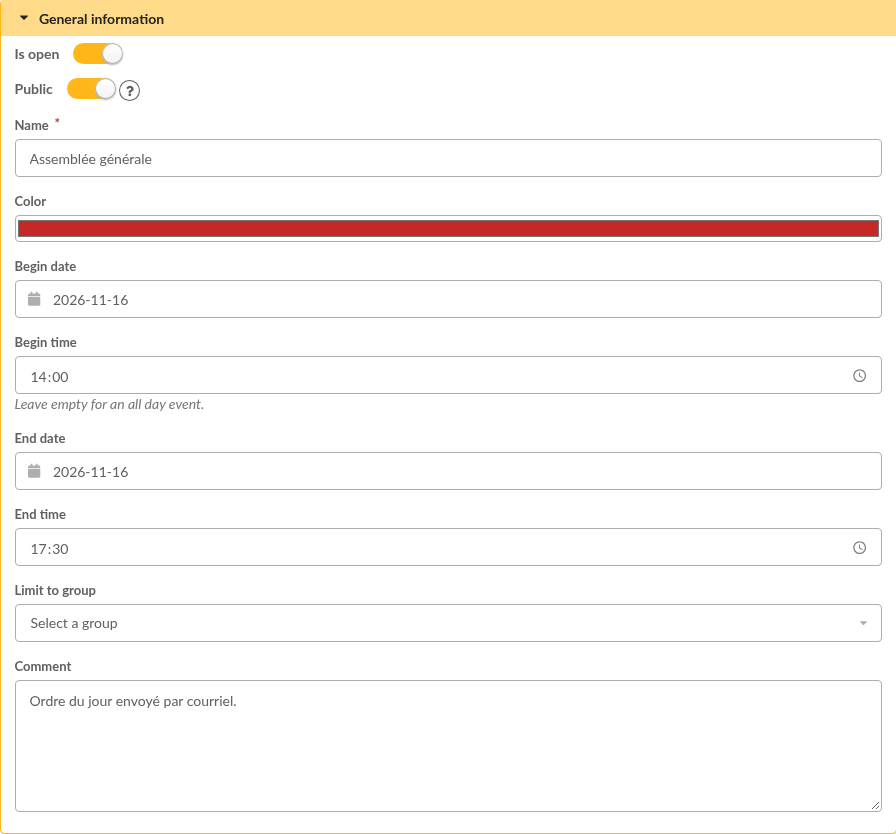
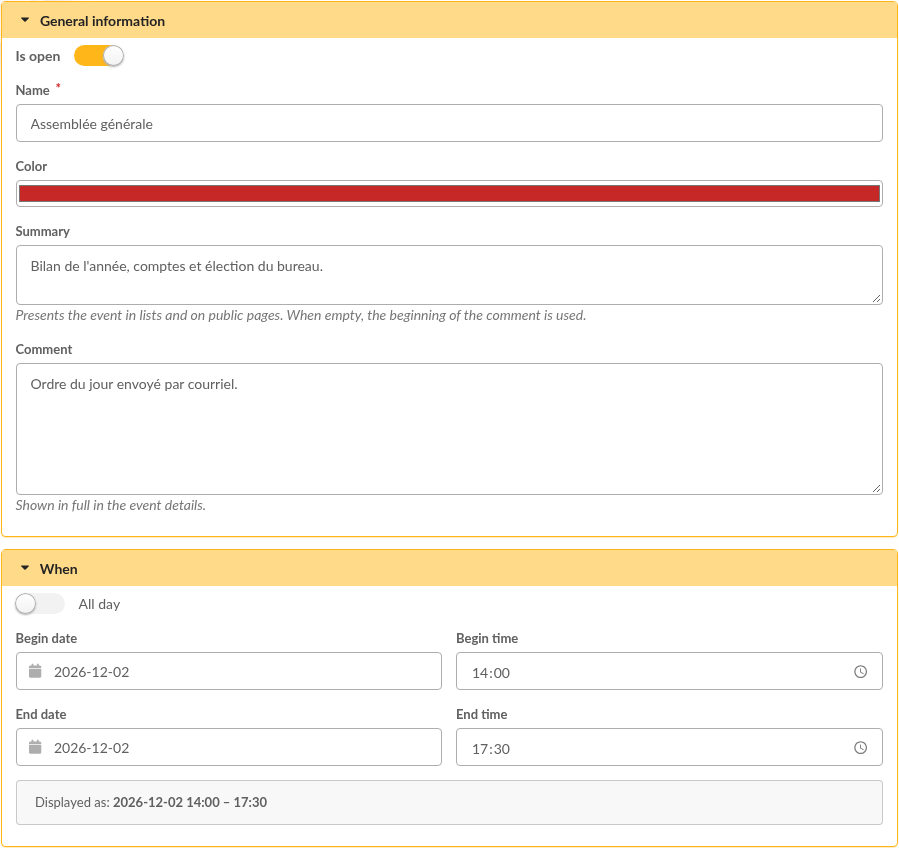
Document the event form parts, subscription menu and public event details

diff --git a/fr/documentation.md b/fr/documentation.md
@@ -7,20 +7,18 @@ Ce plugin fournit :
 
 * gestion d'évènements,
 * association d'activités avec des évènements,
-* gestion des réservations.
+* gestion des réservations,
+* un calendrier, avec les évènements pour les applications d'agenda,
+* une page publique listant les évènements que vous publiez.
 
 ## Installation
 
 Tout d'abord, téléchargez le plugin :
 
-* [Obtenir le dernier plugin Events
-  !](https://github.com/galette-plugins/plugin-events/releases/latest)
-* [Obtenir la nightly du plugin Events
-  !](https://github.com/galette-plugins/plugin-events/releases/tag/nightly)
+* [Obtenir le dernier plugin Events !](https://github.com/galette-plugins/plugin-events/releases/latest)
+* [Obtenir la nightly du plugin Events !](https://github.com/galette-plugins/plugin-events/releases/tag/nightly)
 
-Extrayez l'archive téléchargée dans le dossier `plugins` de Galette. Par
-exemple, sous linux (en remplaçant `{url}` et `{version}` par les valeurs
-adéquates) :
+Extrayez l'archive téléchargée dans le dossier `plugins` de Galette. Par exemple, sous linux (en remplaçant `{url}` et `{version}` par les valeurs adéquates) :
 
 ```bash
 $ cd /var/www/html/galette/plugins
@@ -30,94 +28,152 @@ $ tar xjvf galette-plugin-events-{version}.tar.bz2
 
 ## Initialisation de la base de données
 
-Pour fonctionner, ce plugin requiert des tables dans la base de données.
-Référez-vous [à l'interface de gestion des plugins de
-Galette](https://doc.galette.eu/en/master/plugins/index.html#plugins-managment).
+Pour fonctionner, ce plugin requiert des tables dans la base de données. Référez-vous [à l'interface de gestion des plugins de Galette](https://doc.galette.eu/en/master/plugins/index.html#plugins-managment).
 
 Et c'est terminé, le plugin Events est installé :)
 
 ## Utilisation du plugin
 
-Lorsque le plugin est installé, un groupe `Évènements` est ajouté au menu de
-Galette lorsqu'un utilisateur est connecté. Il y a plusieurs possibilités qui
-diffèrent en fonction du profil de l'utilisateur (simple adhérent, responsable
-de groupe, administrateur, ...).
+Lorsque le plugin est installé, un groupe `Évènements` est ajouté au menu de Galette lorsqu'un utilisateur est connecté. Il y a plusieurs possibilités qui diffèrent en fonction du profil de l'utilisateur (simple adhérent, responsable de groupe, administrateur, ...).
 
 ### Activités
 
-Vous pouvez définir autant d'activités que vous le souhaitez, et les associer à
-un évènement. Une activité peut être un voyage organisé, un repas, une sortie,
-un hébergement, ...
+Vous pouvez définir autant d'activités que vous le souhaitez, et les associer à un évènement. Une activité peut être un voyage organisé, un repas, une sortie, un hébergement, ...
 
 ![La liste des activités](images/list_activities.png)
 
-Una activité se compose d'un nom, d'un statut et éventuellement d'un
-commentaire.
+Une activité se compose d'un nom, d'un statut et éventuellement d'un commentaire.
 
 Pour ajouter une nouvelle activité, cliquez sur le lien « Nouvelle activité » :
 
-![La forme d'une nouvelle activité](images/new_activity.png)
+![Le formulaire d'une nouvelle activité](images/new_activity.png)
 
 ### Évènements
 
-Les évènements sont le cœur du plugin. Vous pouvez définir diverses
-informations, comme un nom, des dates de début et de fin, un lieu, ...
+Les évènements sont le cœur du plugin. Vous pouvez définir diverses informations, comme un nom, des dates de début et de fin, un lieu, ...
 
-![La forme d'un nouvel événement](images/new_event.png)
+![Le formulaire d'un nouvel évènement](images/new_event.png)
 
-Les nom, date de début et ville sont requis. Toutes les autres informations sont
-optionnelles.
+Les nom, date de début et ville sont requis. Toutes les autres informations sont optionnelles.
 
-Les évènements qui ne sont pas liés à un groupe seront accessible pour tous les
-adhérents ; Si un groupe est défini, seuls les membres et responsable de ce
-groupe y auront accès.
+Le **Résumé** présente l'évènement en quelques mots, dans les listes et sur les pages publiques ; s'il est vide, le début du commentaire est utilisé à la place. Le **Commentaire** est affiché en entier dans le détail de l'évènement.
+
+La partie **Quand** définit les dates et heures de l'évènement. Cochez **Toute la journée** pour un évènement sans heures : les champs d'heure sont alors masqués, et les heures saisies auparavant sont ignorées. Sinon, les heures restent facultatives :
+
+* **Sans heure de début** : l'évènement dure toute la journée, de sa date de début à sa date de fin,
+* **Heure de début seule** : l'évènement est affiché à son heure de début, sans fin,
+* **Heures de début et de fin** : sur une même journée, l'heure de fin ne peut pas précéder l'heure de début.
+
+Une heure de fin sans heure de début est refusée. **Affiché ainsi** montre, pendant la saisie, la période telle qu'elle apparaîtra dans les listes, dans le calendrier et sur les pages publiques.
+
+> **Note** — Les heures, le résumé et le choix « Qui peut le voir » sont apparus en version 2.4.0.
+
+La partie **Qui peut le voir** définit qui a accès à l'évènement :
+
+![Qui peut voir un évènement](images/event_visibility.png)
+
+* **Tous les membres** : l'évènement est accessible à tous les adhérents,
+* **Un groupe** : seuls les membres et responsables du groupe choisi (et de ses sous-groupes) y auront accès,
+* **Public** : l'évènement est accessible à tous les adhérents, et il est aussi publié sur les pages publiques de Galette, voir [Évènements publics](#public-events).
 
 > **Note**
-> 
-> Lorsqu'un responsable de groupe crée un nouvel évènement, il doit choisir l'un
-> des groupes qu'il gère !
+>
+> Les responsables de groupe n'ont pas ce choix : ils doivent choisir l'un des groupes qu'ils gèrent, et ne peuvent pas publier d'évènements.
 
-Vous pouvez attacher une ou plusieurs activités à chaque évènement, et pour
-chacune d'entre elles si elle est disponible, non disponible ou encore
-obligatoire. Choisissez l'activité à ajouter et cliquez sur le bouton.
+Vous pouvez attacher une ou plusieurs activités à chaque évènement, et pour chacune d'entre elles si elle est disponible, non disponible ou encore obligatoire. Choisissez l'activité à ajouter et cliquez sur le bouton.
 
-![Les activités liées à un événement](images/event_activities.png)
+![Les activités liées à un évènement](images/event_activities.png)
 
 > **Attention**
-> 
-> Ajouter ou supprimer une activité d'un évènement rechargera la page et vous
-> demandera d'enregistrer les informations requises. Néanmoins (et c'est précisé
-> à chaque fois), l'évènement **ne sera pas enregistré** pendant cette
-> opération.
-> 
+>
+> Ajouter ou supprimer une activité d'un évènement rechargera la page et vous demandera d'enregistrer les informations requises. Néanmoins (et c'est précisé à chaque fois), l'évènement **ne sera pas enregistré** pendant cette opération.
+>
 > Assurez-vous de sauvegarder l'évènement :)
 
-Depuis la liste des évènements, vous pouvez modifier ou supprimer des entrées,
-accéder à la liste des réservations ou exporter ces dernières en CSV.
+Depuis la liste des évènements, vous pouvez modifier ou supprimer des entrées, accéder à la liste des réservations, exporter ces dernières en CSV, ou télécharger l'évènement pour les applications d'agenda. La colonne de date montre toute la période de l'évènement, avec ses heures s'il en a.
 
-![La liste des événements](images/events_list.png)
+![La liste des évènements](images/events_list.png)
+
+### Calendrier
+
+L'entrée `Calendrier` du menu affiche les évènements que vous pouvez voir, par mois ou en listes quotidienne, hebdomadaire et mensuelle. Pour les adhérents, il montre aussi les évènements passés et fermés, que la liste des évènements laisse de côté. Cliquez sur un évènement pour en voir le détail :
+
+![Un évènement dans le calendrier](images/calendar_event.png)
+
+De là, vous pouvez modifier l'évènement (si vous y êtes autorisé), ajouter une nouvelle réservation ou télécharger l'évènement.
+
+### Applications d'agenda
+
+Les évènements peuvent être ajoutés aux applications d'agenda, comme Thunderbird, Google Agenda, Outlook ou l'agenda de votre téléphone, grâce au format iCalendar (fichiers `.ics`).
+
+> **Note** — Ajouté en version 2.4.0.
+
+#### Télécharger un évènement
+
+Utilisez l'icône de téléchargement de la liste des évènements, ou le bouton **Télécharger** du détail de l'évènement dans le calendrier. Vous obtenez un fichier `.ics` à ouvrir ou à importer dans votre application d'agenda. Il contient les dates et heures de l'évènement, son lieu, son commentaire, les activités proposées et un lien pour réserver.
+
+Un évènement téléchargé est une copie : il ne changera pas dans votre application d'agenda si l'évènement est modifié dans Galette. Téléchargez-le à nouveau, ou abonnez-vous plutôt.
+
+#### S'abonner aux évènements
+
+Un abonnement tient votre application d'agenda à jour toute seule. Utilisez le bouton **S'abonner** de la page du calendrier : il ajoute l'abonnement dans votre application d'agenda par défaut. La première fois, il crée votre adresse d'abonnement personnelle.
+
+La flèche à côté du bouton donne d'autres options :
+
+![Options d'abonnement](images/calendar_subscription.png)
+
+* **Copier mon adresse d'abonnement**, pour l'ajouter à la main comme abonnement (parfois appelé « agenda depuis Internet » ou « nouvel agenda depuis une URL ») dans votre application,
+* **Changer mon adresse d'abonnement…**, voir plus bas,
+* **Comment s'abonner ?** explique comment s'abonner depuis les applications d'agenda les plus courantes :
+
+![Comment s'abonner](images/subscription_help.png)
+
+L'abonnement contient les mêmes évènements que votre calendrier : les évènements qui ne sont pas restreints à un groupe, ceux de vos groupes et ceux que vous avez réservés, fermés compris. Les évènements terminés depuis plus d'un an sont laissés de côté. Les textes sont dans votre langue.
+
+Les applications d'agenda rafraîchissent les abonnements à leur propre rythme ; Galette demande toutes les heures, mais certaines applications rafraîchissent moins souvent (Google Agenda peut mettre jusqu'à un jour).
+
+> **Attention**
+>
+> L'adresse d'abonnement est personnelle : toute personne qui la connaît peut voir vos évènements, sans connexion. Si elle a été divulguée, utilisez **Changer mon adresse d'abonnement…** : une fois confirmé, l'ancienne cesse aussitôt de fonctionner, et vous devrez vous abonner à nouveau avec la nouvelle.
+
+L'adresse cesse aussi de fonctionner lorsque le compte de l'adhérent est désactivé. Le super administrateur, qui n'est pas un adhérent, n'a pas d'abonnement.
+
+#### Heures et fuseau horaire
+
+Les heures sont transmises aux applications d'agenda en temps universel (UTC), converties depuis le fuseau horaire du serveur : chaque application les affiche ensuite dans son propre fuseau. Si les heures sont décalées dans les applications d'agenda, le fuseau horaire PHP du serveur (réglage `date.timezone`) n'est probablement pas celui de votre association ; demandez à votre hébergeur ou à votre administrateur de le corriger.
 
 ### Réservations
 
-Les réservations peuvent être enregistrées sur chaque évènement. Comme dit
-précédemment, les simples membres et responsables de groupes seront limités aux
-évènements liés aux groupes auxquels ils appartiennent, ou à ceux qui ne sont
-pas restreints à un groupe.
+Les réservations peuvent être enregistrées sur chaque évènement. Comme dit précédemment, les simples membres et responsables de groupes seront limités aux évènements liés aux groupes auxquels ils appartiennent, ou à ceux qui ne sont pas restreints à un groupe.
 
-Ajouter une nouvelle réservation se fait depuis l'entrée de menu « Nouvelle
-réservation » ou depuis la liste des réservations.
+Ajouter une nouvelle réservation se fait depuis l'entrée de menu « Nouvelle réservation » ou depuis la liste des réservations.
 
 ![Le formulaire de nouvelle réservation](images/new_booking.png)
 
-Les réservations sont closes dès que l'évènement est marqué comme fermé, ou si
-la date de début est dépassée. Les administrateurs et membres du bureau peuvent
-toujours ajouter de nouvelles réservations.
+Les réservations sont closes dès que l'évènement est marqué comme fermé, ou si la date de début est dépassée. Les administrateurs et membres du bureau peuvent toujours ajouter de nouvelles réservations.
 
-La liste des activités est récupérée depuis l'évènement ; celles qui sont
-obligatoires doivent bien sur être cochées lors de la réservation.
+La liste des activités est récupérée depuis l'évènement ; celles qui sont obligatoires doivent bien sûr être cochées lors de la réservation.
 
 ![La liste des réservations](images/bookings_list.png)
 
-Vous pouvez filtrer la liste des évènements par évènement, type ou statut de
-paiement. Vous pouvez envoyer des mailings aux membres qui ont réservé, en
-utilisant le mécanisme de mailing de Galette.
+Vous pouvez filtrer la liste des réservations par évènement, type ou statut de paiement. Vous pouvez envoyer des mailings aux membres qui ont réservé, en utilisant le mécanisme de mailing de Galette.
+
+### Évènements publics
+
+Les évènements peuvent être montrés aux personnes qui ne sont pas connectées, sur une page publique, avec un abonnement pour les applications d'agenda qui ne demande aucun compte.
+
+> **Note** — Ajouté en version 2.4.0.
+
+Pour publier un évènement, choisissez **Public** dans la partie **Qui peut le voir** de son formulaire. Seuls les évènements qui ne sont pas restreints à un groupe peuvent être publics : un évènement limité à certains membres ne peut pas être montré à tout le monde. Les responsables de groupe, qui doivent choisir l'un de leurs groupes, ne peuvent pas publier d'évènements.
+
+Lorsque les pages publiques sont activées, le menu des pages publiques reçoit une entrée `Évènements`, qui liste par mois les évènements publics à venir, avec leurs dates, ville, résumé et activités ; les réservations et les participants ne sont jamais montrés. Le bouton **Calendrier** les affiche plutôt dans un calendrier ; la page retient votre choix.
+
+![La page des évènements publics](images/public_events.png)
+
+Cliquez sur le nom d'un évènement pour en voir le détail : adresse complète avec un lien vers une carte, commentaire et activités. **Ajouter à mon agenda** télécharge l'évènement pour les applications d'agenda, sans aucun compte.
+
+![Le détail d'un évènement public](images/public_event_details.png)
+
+Le bouton **S'abonner** ajoute tous les évènements publics à une application d'agenda, et les tient à jour ; sa flèche permet de copier l'adresse d'abonnement, ou explique comment s'abonner. Cette adresse n'est pas personnelle : c'est la même pour tout le monde.
+
+Qui peut voir cette page et son abonnement se règle avec les autres visibilités des pages publiques, depuis les préférences de Galette : le réglage **Évènements** suit la visibilité par défaut, sauf si vous le changez. Voir [qui peut voir les pages publiques](https://doc.galette.eu/en/master/usermanual/public_pages.html#who-can-see-them).

diff --git a/documentation.md b/documentation.md
@@ -56,23 +56,29 @@ Events are the main goal of the plugin. You can define several information, like
 
 Name, begin date and town are mandatory. All other information are entirely optional.
 
-Begin and end times are optional as well:
+The **Summary** presents the event in a few words, in lists and on public pages; when it is empty, the beginning of the comment is used instead. The **Comment** is shown in full in the event details.
+
+The **When** part sets the dates and times of the event. Check **All day** for an event without times: time fields are then hidden, and times typed before are ignored. Otherwise, times are optional as well:
 
 * **No begin time**: the event lasts all day long, from its begin date to its end date,
 * **Begin time only**: the event is shown at its begin time, without end,
 * **Begin and end times**: on a single day, the end time cannot be before the begin time.
 
-An end time without begin time is refused.
+An end time without begin time is refused. **Displayed as** shows, while you type, the period as it will appear in lists, in the calendar and on public pages.
 
-> **Note** — Times appeared in version 2.4.0.
+> **Note** — Times, summary and the "Who can see it" choice appeared in version 2.4.0.
 
-The **Public** switch publishes the event on Galette public pages, see [Public events](#public-events).
+The **Who can see it** part sets who has access to the event:
 
-Events that are not linked to a group will be available for all members. If a group is set, only members and managers of this group will have access.
+![Who can see an event](images/event_visibility.png)
+
+* **Every member**: the event is available for all members,
+* **A group**: only members and managers of the chosen group (and of its subgroups) will have access,
+* **Public**: the event is available for all members, and is also published on Galette public pages, see [Public events](#public-events).
 
 > **Note**
 >
-> When a group manager creates a new event, he must choose one of the groups he owns!
+> Group managers do not get this choice: they must choose one of the groups they own, and cannot publish events.
 
 You can attach one or several activities to each event, and for each one set if it is available, not available or even mandatory. Choose the activity to add, and click the button.
 
@@ -110,12 +116,17 @@ A downloaded event is a copy: it will not change in your calendar application if
 
 #### Subscribe to events
 
-A subscription keeps your calendar application up to date by itself. Use the **Subscribe** button of the calendar page; the first time, click on **Get my subscription address**:
+A subscription keeps your calendar application up to date by itself. Use the **Subscribe** button of the calendar page: it adds the subscription in your default calendar application. The first time, it creates your personal subscription address.
 
-![Subscription to events](images/calendar_subscription.png)
+The arrow next to the button gives other options:
 
-* **Open in my calendar application** adds the subscription in your default calendar application,
-* or copy the address, and add it as a calendar subscription (sometimes named "calendar from the Internet", or "new calendar from URL") in your application.
+![Subscription options](images/calendar_subscription.png)
+
+* **Copy my subscription address**, to add it by hand as a calendar subscription (sometimes named "calendar from the Internet", or "new calendar from URL") in your application,
+* **Change my subscription address…**, see below,
+* **How to subscribe?** explains how to subscribe from the most common calendar applications:
+
+![How to subscribe](images/subscription_help.png)
 
 The subscription contains the same events as your calendar: events that are not restricted to a group, the ones of your groups, and the ones you have booked, closed ones included. Events ended for more than a year are left out. Texts are in your language.
 
@@ -123,7 +134,7 @@ Calendar applications refresh subscriptions on their own schedule; Galette asks 
 
 > **Warning**
 >
-> The subscription address is personal: anyone who knows it can see your events, without login. If it has been disclosed, use **Change my subscription address**: the previous one will stop working at once, and you will have to subscribe again with the new one.
+> The subscription address is personal: anyone who knows it can see your events, without login. If it has been disclosed, use **Change my subscription address…**: once you confirm, the previous one stops working at once, and you will have to subscribe again with the new one.
 
 The address stops working as well when the member account is disabled. Super administrator, who is not a member, has no subscription.
 
@@ -153,10 +164,16 @@ Events can be shown to people who are not logged in, on a public page, with a su
 
 > **Note** — Added in version 2.4.0.
 
-To publish an event, check its **Public** switch. Only events that are not restricted to a group can be public: an event limited to some members cannot be shown to anyone. Group managers, who must choose one of their groups, cannot publish events.
+To publish an event, choose **Public** in the **Who can see it** part of its form. Only events that are not restricted to a group can be public: an event limited to some members cannot be shown to anyone. Group managers, who must choose one of their groups, cannot publish events.
 
-When public pages are enabled, the public pages menu gets an `Events` entry, that lists upcoming public events with their dates, location, comment and activities; bookings and attendees are never shown. The page also provides the subscription address of public events:
+When public pages are enabled, the public pages menu gets an `Events` entry, that lists upcoming public events by month, with their dates, town, summary and activities; bookings and attendees are never shown. The **Calendar** button displays them in a calendar instead; the page remembers your choice.
 
 ![Public events page](images/public_events.png)
+
+Click on an event name to get its details: full address with a link to a map, comment, and activities. **Add to my calendar** downloads the event for calendar applications, without any account.
+
+![Public event details](images/public_event_details.png)
+
+The **Subscribe** button adds all public events to a calendar application, and keeps them up to date; its arrow lets you copy the subscription address, or explains how to subscribe. This address is not personal: it is the same for everyone.
 
 Who can see this page and its subscription is set with the other public pages visibilities, from Galette settings: the **Events** setting follows the default visibility unless you change it. See [who can see public pages](https://doc.galette.eu/en/master/usermanual/public_pages.html#who-can-see-them).
